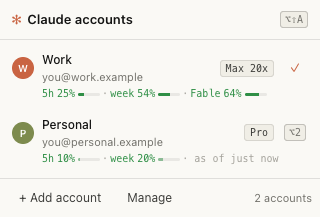
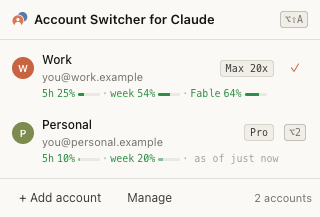
feat: rename to "Account Switcher for Claude" and bump to 0.2.0
The Chrome Web Store turns down listings whose name reads as official. The
product is now "Account Switcher for Claude" (manifest name, short_name and
toolbar title, popup title and header, site title and hero, README). The
manifest description carries the "Unofficial — not affiliated with
Anthropic." disclaimer. The popup header and the site use the extension's
own icon instead of the ✻ glyph. The repo name stays.

Changed region(s): [[0.0312, 0.0553, 0.6875, 0.1106]]

diff --git a/site/index.html b/site/index.html
@@ -3,14 +3,15 @@
   <head>
     <meta charset="utf-8" />
     <meta name="viewport" content="width=device-width, initial-scale=1" />
-    <title>Claude Account Switcher</title>
-    <meta name="description" content="Keep several claude.ai accounts signed in and switch between them in one click." />
+    <title>Account Switcher for Claude</title>
+    <meta name="description" content="Keep several claude.ai accounts signed in and switch between them in one click. Unofficial — not affiliated with Anthropic." />
+    <link rel="icon" href="icon-128.png" />
     <link rel="stylesheet" href="tokens.css" />
     <style>
       :root { --font-ui: var(--font-sans); --fs-base: 15px; }
       body { line-height: 1.55; }
       main { max-width: 720px; margin: 0 auto; padding: 56px 16px 72px; }
-      .mark { color: var(--claude); font-family: var(--font-mono); font-size: 20px; }
+      .brand { display: flex; align-items: center; gap: 10px; margin: 0; font-weight: 600; font-size: 15px; }
       h1 { font-family: var(--font-serif); font-weight: 400; font-size: clamp(28px, 6vw, 40px); line-height: 1.15; margin: 12px 0; }
       .lead { color: var(--text-2); font-size: 17px; margin: 0 0 24px; }
       .cta { display: flex; flex-wrap: wrap; gap: 10px; }
@@ -30,7 +31,7 @@
   </head>
   <body>
     <main>
-      <span class="mark" aria-hidden="true">✻</span>
+      <p class="brand"><img src="icon-128.png" width="28" height="28" alt="" /><span class="name">Account Switcher for Claude</span></p>
       <h1>Every Claude account, one click away.</h1>
       <p class="lead">A small Chrome extension that keeps all your claude.ai accounts signed in, switches between them instantly, and opens “not found” links in the account they belong to.</p>
       <p class="fine">Unofficial — not affiliated with Anthropic.</p>

diff --git a/tests/unit/popup.test.ts b/tests/unit/popup.test.ts
@@ -26,6 +26,13 @@ describe("popup", () => {
     expect(root.textContent).toContain("3 accounts");
   });
 
+  it("names the extension in the header, with its own icon", () => {
+    mount(root, send, ui(), () => NOW);
+    const title = root.querySelector(".head .title")!;
+    expect(title.textContent!.trim()).toBe("Account Switcher for Claude");
+    expect(title.querySelector("img")!.getAttribute("src")).toBe("icons/icon-32.png");
+  });
+
   it("shows a usage line per row: live for the active one, 'as of' for others", () => {
     mount(root, send, ui(), () => NOW);
     const [a, b] = [...root.querySelectorAll(".row .usage")] as HTMLElement[];
@@ -154,12 +161,12 @@ describe("popup", () => {
   it("escapes labels, emails, the error banner and the mismatch email", () => {
     const evil = `<img src=x onerror=alert(1)>`;
     mount(root, send, ui({ accounts: [acct("x", evil, { email: evil })], error: evil }), () => NOW);
-    expect(root.querySelector("img")).toBeNull();
+    expect(root.querySelector("[onerror]")).toBeNull(); // the header's own icon is the only <img>
     expect(root.querySelector(".error")!.textContent).toBe(evil);
     expect(root.querySelector(".label")!.textContent).toBe(evil);
     expect(root.querySelector(".email")!.textContent).toBe(evil);
     mount(root, send, ui({ add: addState({ phase: "mismatch", mismatchEmail: evil }) }), () => NOW);
-    expect(root.querySelector("img")).toBeNull();
+    expect(root.querySelector("[onerror]")).toBeNull();
     expect(root.textContent).toContain(evil);
   });
 

diff --git a/tests/unit/build.test.ts b/tests/unit/build.test.ts
@@ -21,6 +21,13 @@ describe("build", () => {
       ["alarms", "cookies", "storage", "webRequest"].sort(),
     );
     expect(m.commands._execute_action.suggested_key.default).toBe("Alt+Shift+A");
+    // Chrome Web Store: a third-party name must not read as official.
+    expect(m.name).toBe("Account Switcher for Claude");
+    expect(m.short_name).toBe("Account Switcher");
+    expect(m.action.default_title).toBe(m.name);
+    expect(m.description.length).toBeLessThanOrEqual(132);
+    expect(m.description).toContain("Unofficial — not affiliated with Anthropic.");
+    expect(m.version).toBe(JSON.parse(readFileSync("package.json", "utf8")).version);
     expect(readFileSync(join(out, "background.js"), "utf8")).toContain("https://claude.ai");
     expect(readFileSync(join(out, "content.js"), "utf8")).not.toContain(`"open"`); // the in-page UI's shadow root stays closed
     for (const f of ["popup.html", "popup.css", "popup.js", "content.js", "tokens.css"]) {

diff --git a/src/popup/view.ts b/src/popup/view.ts
@@ -36,7 +36,7 @@ function row(a: PublicAccount, i: number, s: UiState, now: number): string {
 }
 
 function renderList(s: UiState, now: number): string {
-  const top = `<header class="head"><span class="title"><span class="claude">✻</span> Claude accounts</span><span class="kbd" title="Open this popup">⌥⇧A</span></header>`;
+  const top = `<header class="head"><span class="title"><img class="logo" src="icons/icon-32.png" width="16" height="16" alt=""> Account Switcher for Claude</span><span class="kbd" title="Open this popup">⌥⇧A</span></header>`;
   const status = s.switchingTo
     ? `<div class="status"><span class="spinner"></span> Switching to ${esc(labelOf(s, s.switchingTo))}…</div>`
     : s.lastSwitch && now - s.lastSwitch.at < 10_000

diff --git a/tests/e2e/site.spec.ts b/tests/e2e/site.spec.ts
@@ -8,6 +8,8 @@ for (const width of [390, 1280]) {
   test(`landing page renders at ${width}px`, async ({ page }) => {
     await page.setViewportSize({ width, height: 900 });
     await page.goto(SITE);
+    await expect(page).toHaveTitle("Account Switcher for Claude");
+    await expect(page.locator(".name")).toHaveText("Account Switcher for Claude");
     await expect(page.locator("h1")).toBeVisible();
     await expect(page.locator("#download")).toHaveAttribute("href", DOWNLOAD);
     await expect(page.getByRole("link", { name: /GitHub/ }).first()).toHaveAttribute("href", "https://github.com/Jeff909Dev/claude-account-switcher");

diff --git a/src/popup/popup.html b/src/popup/popup.html
@@ -2,7 +2,7 @@
 <html lang="en" data-style="app">
   <head>
     <meta charset="utf-8" />
-    <title>Claude accounts</title>
+    <title>Account Switcher for Claude</title>
     <link rel="stylesheet" href="tokens.css" />
     <link rel="stylesheet" href="popup.css" />
   </head>

diff --git a/README.md b/README.md
@@ -1,8 +1,8 @@
-# Claude Account Switcher
+# Account Switcher for Claude
 
 Keep several claude.ai accounts signed in and switch between them in one click — and open "not found"
 links (artifacts, chats, projects) in the account they belong to. Each account row shows a one-line usage
-readout (`5h 25% · week 54% · Fable 64%`). Unofficial; not affiliated with Anthropic.
+readout (`5h 25% · week 54% · Fable 64%`). Unofficial — not affiliated with Anthropic.
 
 ## Install
 
